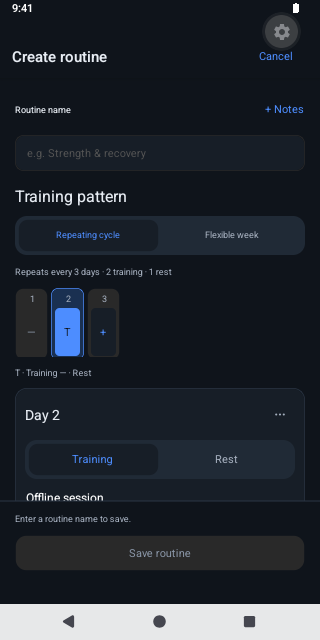
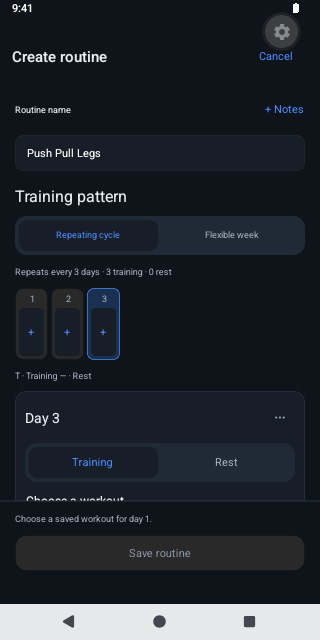
fix(routines): keep the day strip from clipping the day boxes
The horizontal ScrollView wrapping the day boxes was a flex child of the
tall routine-editor column, so it flex-shrank below the box height and
clipped the bottom of every day box (measured 92px against a 96px box on
the emulator). Pin it with style flexShrink:0 so the strip always renders
the boxes at full height.

diff --git a/features/routines/components/RoutinePatternEditor.tsx b/features/routines/components/RoutinePatternEditor.tsx
@@ -133,7 +133,7 @@ export function RoutinePatternEditor({
             {pattern.length === 1 ? 'Repeats every day' : `Repeats every ${pattern.length} days`} ·{' '}
             {training} training · {pattern.length - training} rest
           </Text>
-          <ScrollView horizontal showsHorizontalScrollIndicator={false}>
+          <ScrollView horizontal showsHorizontalScrollIndicator={false} style={{ flexShrink: 0 }}>
             <XStack gap="$compact">
               {pattern.map((item, itemIndex) => (
                 <Button
